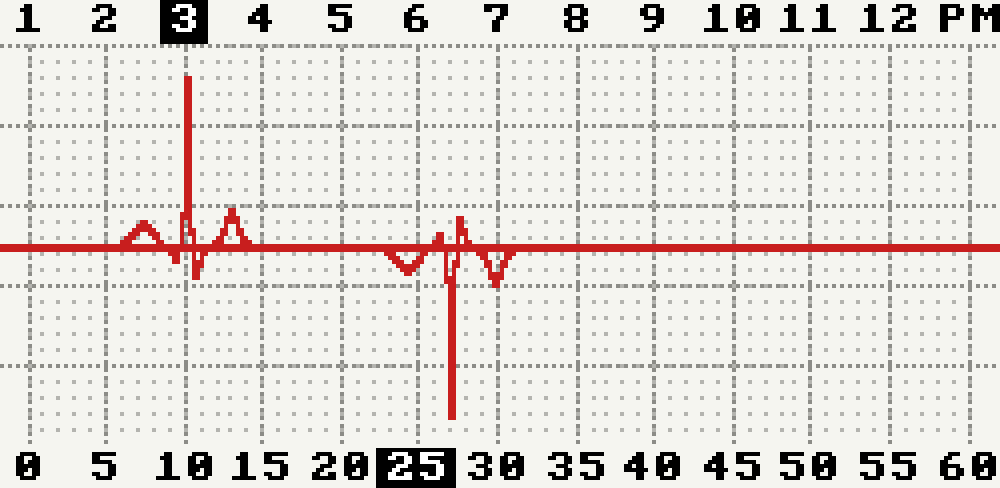
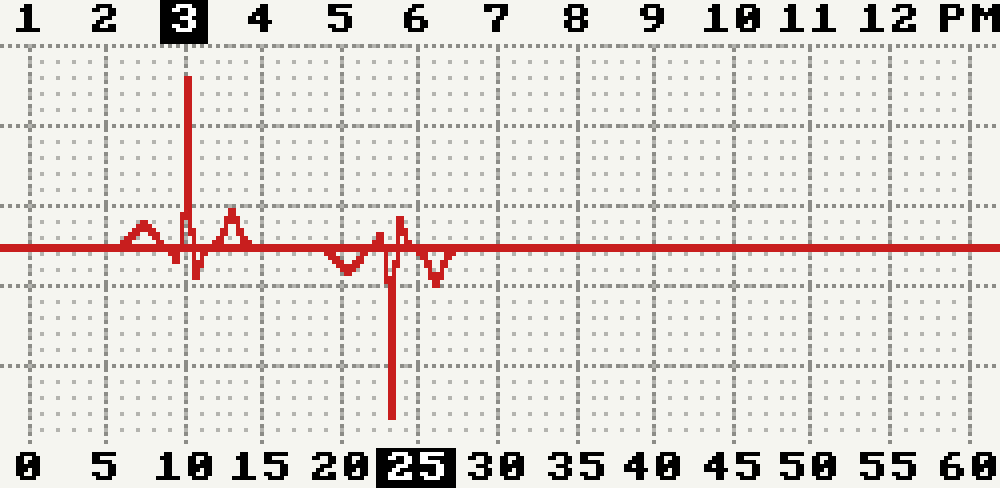
Remove +4 minute spike offset now that grid is accurate
Claude-Session: https://claude.ai/code/session_01XLdymnhpdpLwgaRh7QXt88

Changed region(s): [[0.31, 0.4303, 0.527, 0.8607]]

diff --git a/watchface.py b/watchface.py
@@ -105,10 +105,10 @@ def draw_watchface(fb, hour12, minute, is_pm, fb_red=None):
     if fb_red:
         fb_red.fill(0)
         _trace(fb_red, _BL, _hx(hour12), _PK, -1, 1)
-        _trace(fb_red, _BL, _mx(minute + 4), _PK, 1, 1)
+        _trace(fb_red, _BL, _mx(minute), _PK, 1, 1)
     else:
         _trace(fb, _BL, _hx(hour12), _PK, -1)
-        _trace(fb, _BL, _mx(minute + 4), _PK, 1)
+        _trace(fb, _BL, _mx(minute), _PK, 1)
 
     for h in range(1, 13):
         _label(fb, h, _hx(h), _LBL_HR_Y, h == hour12)

diff --git a/preview.py b/preview.py
@@ -112,7 +112,7 @@ def render(hour24, minute):
     # traces
     tc = (200, 30, 30)
     hr_px = _hx(h12)
-    mn_px = _mx(minute + 4)
+    mn_px = _mx(minute)
     for peak_x, sign in [(hr_px, -1), (mn_px, 1)]:
         prev = _BL
         for x in range(W):
